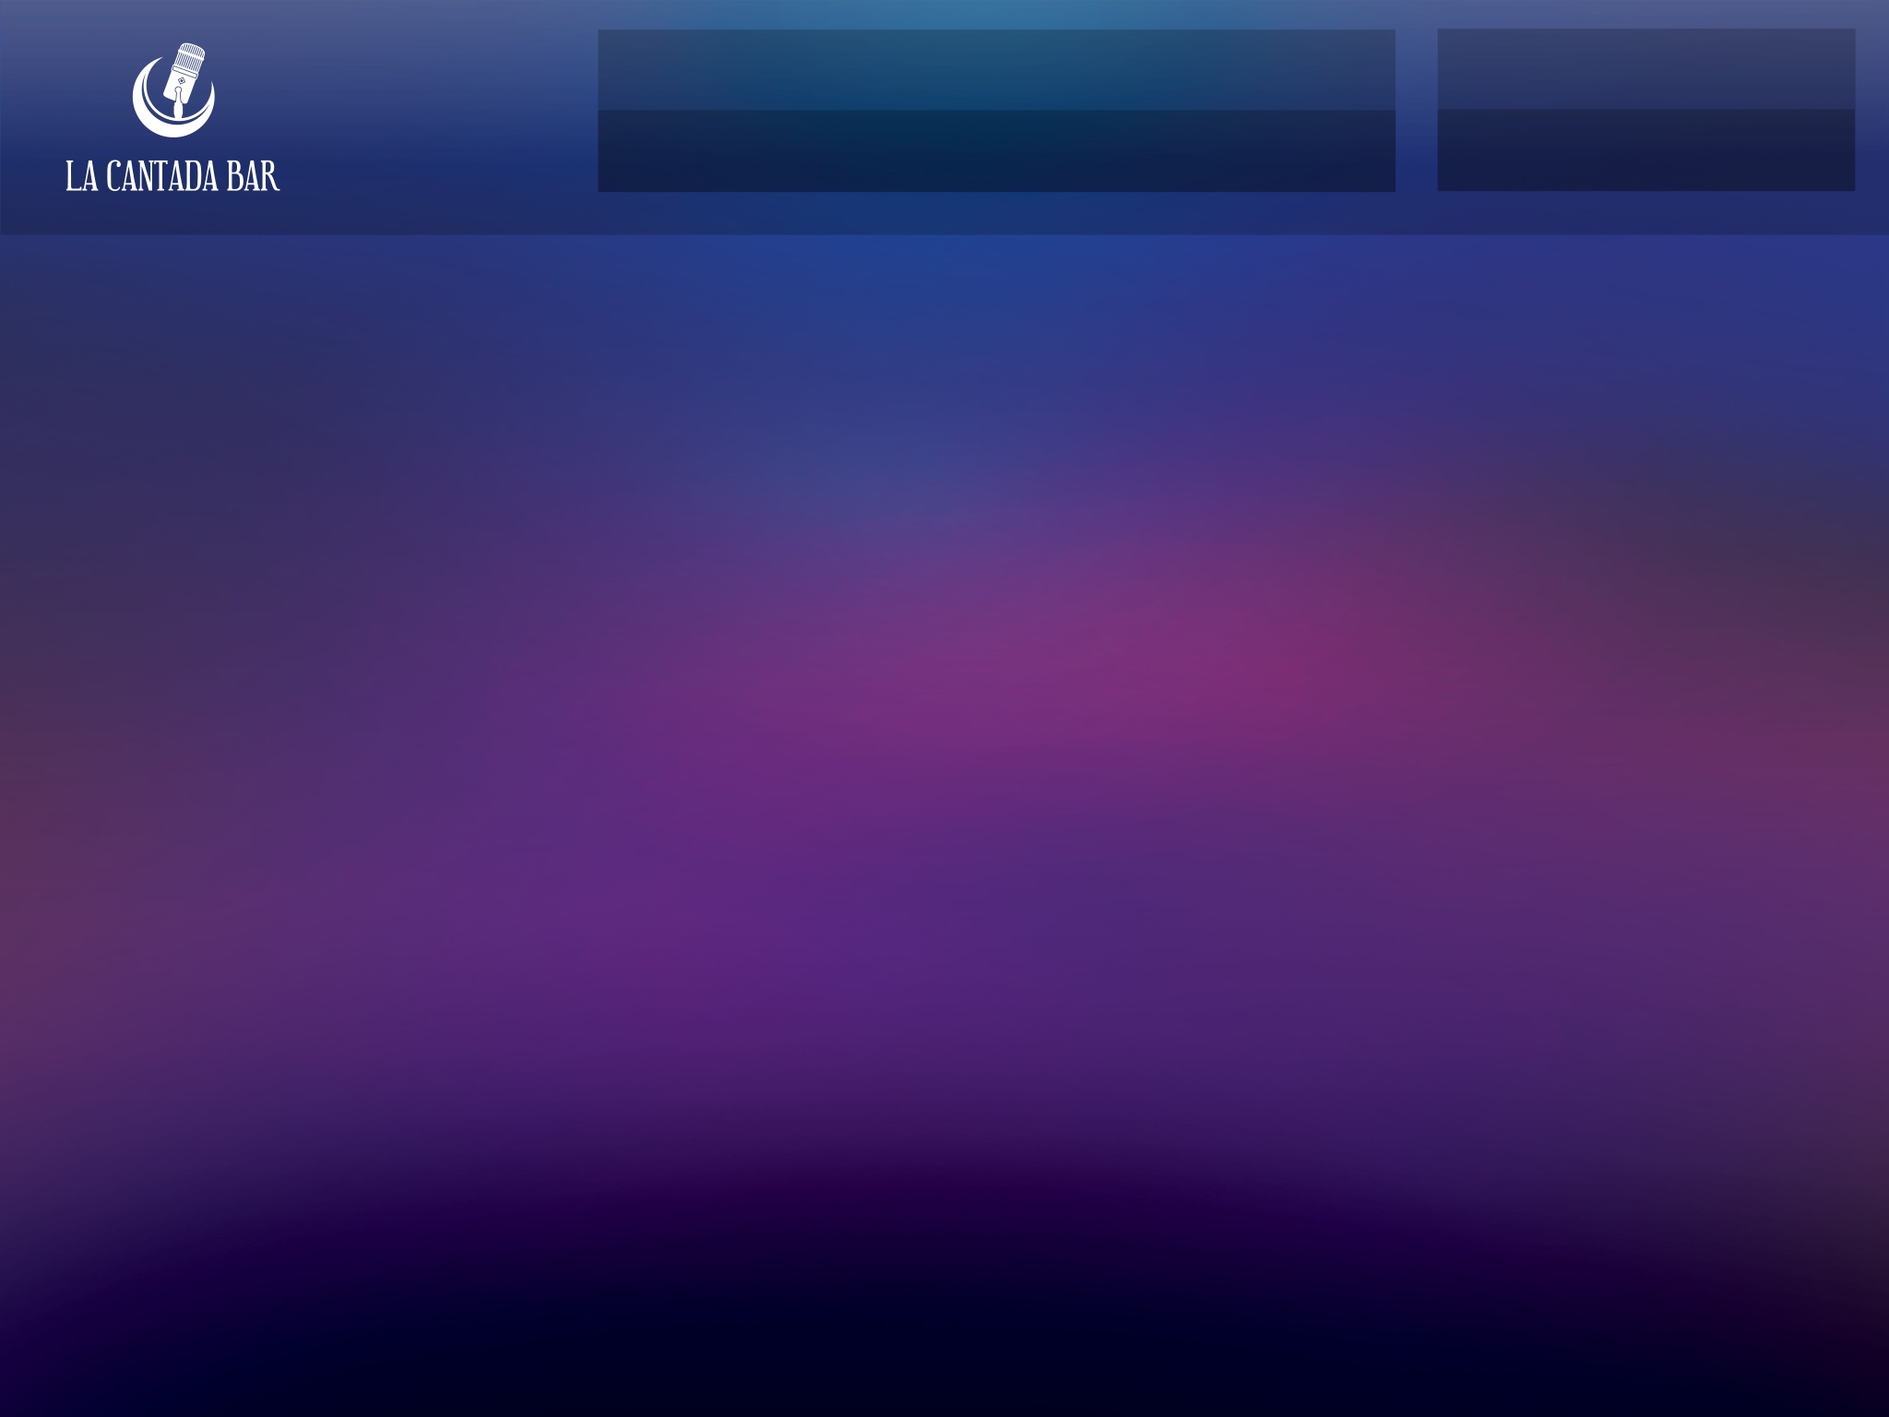
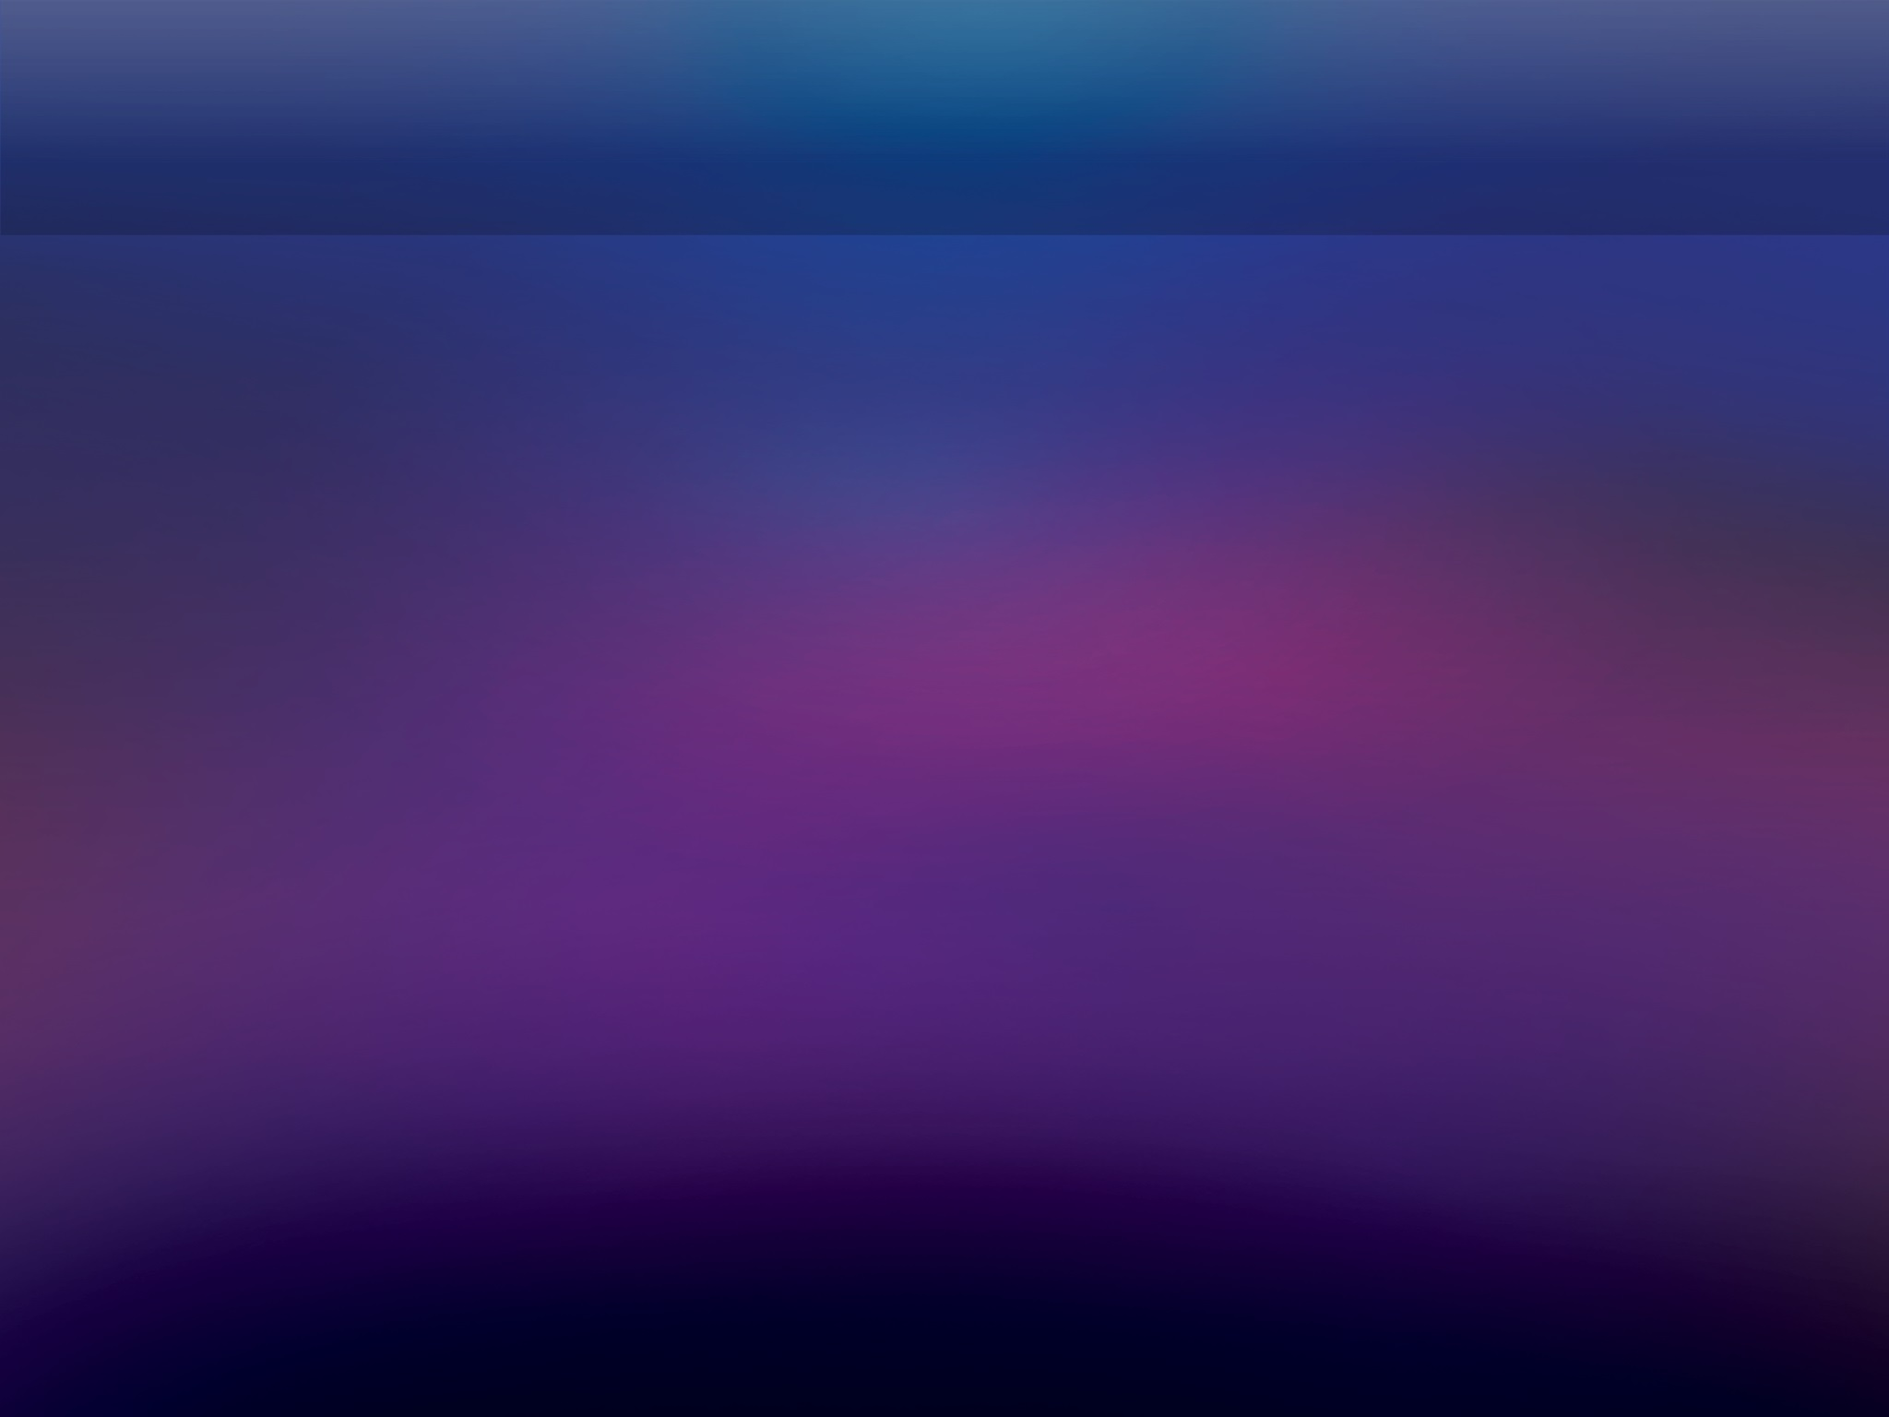
cambios

Changed region(s): [[0.3125, 0.0, 1.0, 0.1562], [0.0312, 0.0312, 0.1562, 0.1562]]

diff --git a/js/index.js b/js/index.js
@@ -1,6 +1,7 @@
 var images = new Array()
 var covers_loading = false;
 var search_text = "";
+var drinks = false;
 var limit = 0;
 var searching = false;
 function preload() {
@@ -15,7 +16,22 @@ preload(
 	"img/cancionero-activo.jpg",
 	"img/menu-activo.jpg",
 	"img/fotos-activo.jpg",
-	"img/info-activo.jpg"
+	"img/info-activo.jpg",
+	"img/menu/botonesmenuactiv01.png",
+	"img/menu/botonesmenuactiv02.png",
+	"img/menu/botonesmenuactiv03.png",
+	"img/menu/botonesmenuactiv4.png",
+	"img/menu/botonesmenuactiv5.png",
+	"img/menu/botonesmenuactiv6.png",
+	"img/menu/botonesmenuactiv7.png",
+	"img/menu/botonesmenuactiv8.png",
+	"img/menu/botonesmenuactiv9.png",
+	"img/menu/botonesmenuactiv10.png",
+	"img/menu/botonesmenuactiv11.png",
+	"img/menu/botonesmenuactiv12.png",
+	"img/menu/botonesmenuactiv13.png",
+	"img/menu/botonesmenuactiv14.png",
+	"img/menu/botonesmenuactiv15.png"
 )
 
 var promos;
@@ -74,8 +90,9 @@ var app = {
     },
 
     start: function() {		
-		navigator.splashscreen.hide();
-		updateMyApp("inicio");
+		//navigator.splashscreen.hide();
+		//updateMyApp("inicio");
+		drinks = false;
 		setTimeout(function(){
 			$('#splash').fadeOut(function(){
 				StatusBar.overlaysWebView(true);
@@ -122,6 +139,9 @@ var app = {
 					switch(page){
 						case 'inicio':
 							setup_inicio();
+						break;
+						case 'menu':
+							setup_menu();
 						break;
 						case 'cancionero':
 							
@@ -341,6 +361,49 @@ var app = {
 				});
 			}
 		}
+		function setup_menu(){
+			menu = new IScroll('#menu_target_list',{click: true,scrollbars: true,interactiveScrollbars: true,shrinkScrollbars: 'scale',fadeScrollbars: true});
+			searching_drinks = false;
+			$('.category').click(function(e) {
+				if(!searching_drinks){
+					drinks = true;
+					searching_drinks=true;
+					$('.category').removeClass('active');
+					$(this).addClass('active');
+					//Search on server
+					result = "<li><span>VOLUMEN</span><span>NOMBRE</span><span>BOTELLA</span><span>COPEO</span></li>";
+					$("#menu_target_list .scroller").html(result);
+					search_drink=$(this).attr('id');
+					$.ajax({
+						url: "http://www.tuquinielita.com/lacantadabar/getProductsByType.php",
+						dataType: "jsonp",
+						data: {type:search_drink},
+						success: function (response) {
+							if(response.success){
+								searching_drinks=false;
+								count = response.items.length;
+								$.each(response.items,function (i,item) {
+									result+="<li><span>"+item.volume+"ml</span><span>"+item.name+"</span><span>"+item.price+"</span><span>"+item.drink+"</span></li>";
+									if (!--count) {
+											$("#menu_target_list .scroller").html(result);
+											$('#menu_target .title').html(search_drink);
+											if(menu){menu.refresh();menu.scrollTo(0,0,1500);}
+									}
+								});
+							}else{
+								searching_drinks=false;
+							}
+						},
+						error: function(){
+							searching_drinks=false;
+						}
+					});
+				}
+            });
+			if(!drinks){
+				$('.category:first').click();
+			}
+		}
 		function setup_inicio(){			
 			if(check_refresh("setup_inicio")){
 				checarSlides("slides");
@@ -383,8 +446,7 @@ var app = {
 							//Si no se tiene previamente guardado en localStorage || locaStorage es diferente a lo obtenido o está vacío || no hay nada (ocurre al refresh)
 							if(!localStorage.getItem(target)||localStorage.getItem(target)!=prepend||!$("#"+target+" li").length){
 								localStorage.setItem(target,prepend);
-								$("#"+target).html("");
-								$("#"+target).prepend(prepend);
+								$("#"+target).html(prepend);
 								setTimeout(function(){if(target=="slides"){slides.reloadSlider();}else{promos.reloadSlider();}},100);
 							}
 							
@@ -398,29 +460,68 @@ var app = {
 			});
 		}
 		function setup_fotos(){
+			result ="";
+			$.ajax({
+						url: "http://www.tuquinielita.com/lacantadabar/getPics.php",
+						dataType: "jsonp",
+						success: function (response) {
+							count = response.items.length;
+							$.each(response.items,function (i,item) {
+								result+="<img src='"+item.path+"'></img>";
+								if (!--count) {
+									$("#photo_list .scroller").append(result);
+									$("#photo_list .scroller img").click(function(e) {
+										var data = $(this).attr('src');
+										$('#photo_show').animate({opacity:0},'10',function(){
+											$('#photo_show').css('background-image','url('+data+')');
+											$('#photo_show').animate({opacity:1},'10');
+										});
+									});
+									photolist.refresh();
+									//Onload load first image by clicking on it
+									$('#photo_list .scroller img:first-child').click();
+								}
+							});
+						},
+						error: function(){
+							alert("error");
+							setTimeout(function(){if(target=="slides"){slides.reloadSlider();}else{promos.reloadSlider();}},100);
+						}
+					});
 			//Setup lazyload on img.lazy and photo list container
-			$("img.lazy").lazyload({
+			/*$("img.lazy").lazyload({
 				effect : "fadeIn",
 				container: $('#photo_list')
 			});
-			
+			*/
 			//Setup click action on img.lazy
-			$("img.lazy").click(function(e) {
-				var data = $(this).attr('data-original');
-				$('#photo_show').animate({opacity:0},'10',function(){
-					$('#photo_show').css('background-image','url('+data+')');
-					$('#photo_show').animate({opacity:1},'10');
-				});
-			});
+			
 			
 			//Setup Photo List iScroll
 			loading = false;
 			photolist = new IScroll('#photo_list',{click: true,probeType:3,scrollbars: true,interactiveScrollbars: true,shrinkScrollbars: 'scale',fadeScrollbars: true});
-			photolist.on('scroll', function(){
+			/*photolist.on('scroll', function(){
 				if(!loading&&this.y<this.maxScrollY){
 					loading = true;
-					$('#photo_list .scroller').append('<img class="lazy" data-original="http://tuquinielita.com/lacantadabar/img/photos/1.jpg" /><img class="lazy" data-original="http://tuquinielita.com/lacantadabar/img/photos/2.jpg" /><img class="lazy" data-original="http://tuquinielita.com/lacantadabar/img/photos/3.jpg" /><img class="lazy" data-original="http://tuquinielita.com/lacantadabar/img/photos/4.jpg" /><img class="lazy" data-original="http://tuquinielita.com/lacantadabar/img/photos/5.jpg" />');
-					photolist.refresh();
+					result="";
+					$.ajax({
+						url: "http://www.tuquinielita.com/lacantadabar/getPics.php",
+						dataType: "jsonp",
+						success: function (response) {
+							count = response.items.length;
+							$.each(response.items,function (i,item) {
+								result+="<li><img src='"+item.path+"'></img></li>";
+								if (!--count) {
+										$("#photo_list .scroller").append(result);
+										photolist.refresh();
+								}
+							});
+						},
+						error: function(){
+							alert("error");
+							setTimeout(function(){if(target=="slides"){slides.reloadSlider();}else{promos.reloadSlider();}},100);
+						}
+					});
 					setTimeout(function(){
 						loading = false;
 						//Setup click action on img.lazy
@@ -435,13 +536,10 @@ var app = {
 				}
 			});
 			photolist.on('scrollEnd', function(){
-				$("img.lazy").lazyload().on('load', function () {$(this).removeClass();});
 				if (this.y == this.maxScrollY){
 				}
-			});
+			});*/
 			
-			//Onload load first image by clicking on it
-			$('#photo_list img:first-child').click();
 		}
 		function getLocationHash () {
 		  return window.location.hash.substring(1);

diff --git a/css/index.css b/css/index.css
@@ -60,7 +60,7 @@ html,body {
 
 section{width:20%; float:left; height:100%; background-size:100% 100%; position:relative;}
 section div{position:absolute; top:50%; margin-top:-20px; width:100%; text-align:center; color:#fff;}
-#splash{position:absolute; top:0; left:0; width:100%; height:100%; background:url(../img/splash.jpg) no-repeat; background-size:100% 100%; z-index:1;}
+#splash{position:absolute; top:0; left:0; width:100%; height:100%; background:url(../img/splash.jpg) no-repeat; background-size:100% 100%; z-index:100;}
 
 /** INICIO **/
 #slides,#promos{opacity:0;}
@@ -212,6 +212,8 @@ input[type=radio]:not(old):checked + label{
 	border-top: 1px solid #111;
 	background-color: rgba(0,0,0,0.5);
 	font-size: 14px;
+	/* 2 columns */
+	/*width:50%; float:left; overflow:hidden;*/  
 }
 .scroller li span{color:#fff;}
 .iScrollIndicator{border:none !important; background:rgba(100,100,100,0.5) !important;}
@@ -225,6 +227,7 @@ input[type=radio]:not(old):checked + label{
 
 /** HEADER **/
 header{width:100%; height:126px; position:relative; float:left;}
+#logo{width:445px; position:absolute; top:10px; left:0px; z-index:0;}
 #cover{position:absolute; width:88px; height:88px; background-repeat:no-repeat; background-size:contain; left:211px; top:18px;}
 #nowplaying{position: absolute;left: 325px;top: 16px;color: #fff;width: 431px;padding: 7px 10px;}
 #nowplaying h1{font-size:20px; margin:0;}
@@ -233,8 +236,83 @@ header{width:100%; height:126px; position:relative; float:left;}
 #session_name{position:absolute; right:20px; top:20px; width:223px; line-height:42px; text-align:center; font-size:30px}
 #session_user{position:absolute; right:20px; top:63px; width:223px; line-height:42px; text-align:center; font-size:30px}
 
+/** MENU **/
+.title{width:100%; text-align:center; text-transform:uppercase; font-size:25px; color:#fff; font-weight:bold; background:rgba(0,0,0,0.5); line-height:40px; margin-bottom:10px;}
+#menu {width:530px; margin:5px; float:left; background:rgba(0,0,0,0.2);}
+#menu div:not(.title){float:left; margin:0px 5px 10px 10px; width:160px; height:85px; background-size:100% 100%; }
+div#ron.active{background-image:url(../img/menu/botonesmenuactiv01.png);}
+div#ron{background-image:url(../img/menu/botonesmenuinactivo01.png);}
 
+div#whisky.active{background-image:url(../img/menu/botonesmenuactiv02.png);}
+div#whisky{background-image:url(../img/menu/botonesmenuinactivo02.png);}
 
+div#vodka.active{background-image:url(../img/menu/botonesmenuactiv03.png);}
+div#vodka{background-image:url(../img/menu/botonesmenuinactivo03.png);}
+
+div#tequila.active{background-image:url(../img/menu/botonesmenuactiv4.png);}
+div#tequila{background-image:url(../img/menu/botonesmenuinactivo04.png);}
+
+div#ginebra.active{background-image:url(../img/menu/botonesmenuactiv5.png);}
+div#ginebra{background-image:url(../img/menu/botonesmenuinactivo05.png);}
+
+div#brandy.active{background-image:url(../img/menu/botonesmenuactiv6.png);}
+div#brandy{background-image:url(../img/menu/botonesmenuinactivo06.png);}
+
+div#mezcal.active{background-image:url(../img/menu/botonesmenuactiv7.png);}
+div#mezcal{background-image:url(../img/menu/botonesmenuinactivo07.png);}
+
+div#champagne.active{background-image:url(../img/menu/botonesmenuactiv8.png);}
+div#champagne{background-image:url(../img/menu/botonesmenuinactivo08.png);}
+
+div#cognac.active{background-image:url(../img/menu/botonesmenuactiv9.png);}
+div#cognac{background-image:url(../img/menu/botonesmenuinactivo09.png);}
+
+div#shots.active{background-image:url(../img/menu/botonesmenuactiv10.png);}
+div#shots{background-image:url(../img/menu/botonesmenuinactivo10.png);}
+
+div#licores.active{background-image:url(../img/menu/botonesmenuactiv11.png);}
+div#licores{background-image:url(../img/menu/botonesmenuinactivo11.png);}
+
+div#jarras.active{background-image:url(../img/menu/botonesmenuactiv12.png);}
+div#jarras{background-image:url(../img/menu/botonesmenuinactivo12.png);}
+
+div#margaritas.active{background-image:url(../img/menu/botonesmenuactiv13.png);}
+div#margaritas{background-image:url(../img/menu/botonesmenuinactivo13.png);}
+
+div#colados.active{background-image:url(../img/menu/botonesmenuactiv14.png);}
+div#colados{background-image:url(../img/menu/botonesmenuinactivo14.png);}
+
+div#varios.active{background-image:url(../img/menu/botonesmenuactiv15.png);}
+div#varios{background-image:url(../img/menu/botonesmenuinactivo15.png);}
+
+#menu_target{width:440px; height:525px; float:left; margin:5px; background:rgba(0,0,0,0.2);}
+#menu_target .title{margin:0;}
+#menu_target_list{width:100%; height:440px; overflow:hidden; position: relative;
+	/* Prevent native touch events on Windows */
+	-ms-touch-action: none;
+
+	/* Prevent the callout on tap-hold and text selection */
+	-webkit-touch-callout: none;
+	-webkit-user-select: none;
+	-moz-user-select: none;
+	-ms-user-select: none;
+	user-select: none;
+
+	/* Prevent text resize on orientation change, useful for web-apps */
+	-webkit-text-size-adjust: none;
+	-moz-text-size-adjust: none;
+	-ms-text-size-adjust: none;
+	-o-text-size-adjust: none;
+	text-size-adjust: none;
+}
+#menu_target_list .scroller{text-align:center; width:100%; margin-bottom:30px;}
+#menu_target_list .scroller li{list-style:none; background:rgba(0,0,0,0.1); font-weight:normal !important;}
+#menu_target_list .scroller li:first-child{list-style:none; background:rgba(0,0,30,0.3); font-weight:bold;}
+#menu_target_list .scroller li span{ text-transform:uppercase; float:left;}
+#menu_target_list .scroller li span:nth-child(1){width:70px;}
+#menu_target_list .scroller li span:nth-child(2){width:220px; overflow:hidden;}
+#menu_target_list .scroller li span:nth-child(3){width:65px;}
+#menu_target_list .scroller li span:nth-child(4){width:65px;}
 /*** NAVIGATION FOOTER **/
 /*nav{position:absolute; bottom:0;}*/
 nav a{float:left; text-decoration:none; background-repeat:no-repeat; background-size:100% 100%; height:88px;}

diff --git a/index.html b/index.html
@@ -14,9 +14,10 @@
     	<div id="splash"></div>
         <div id="container">
         	<header>
+            	<img src="img/logo.png" id="logo" />
             	<div id="cover"></div>
                 <div id="nowplaying"><h1></h1><h2></h2><div id="lyrics_button">VER LETRA</div></div>
-                <div id="nextsong"><strong>SIGUIENTE CANCIÓN: </strong> </div>
+                <div id="nextsong"><!--strong>SIGUIENTE CANCIÓN: </strong--> </div>
                 <div id="session_name"></div>
                 <div id="session_user"></div>
             </header>
@@ -74,31 +75,40 @@
             <div class="page" id="page_fotos">
             	<div id="photo_show"></div>
             	<div id="photo_list">
-                    <div class="scroller">
-                        <img class="lazy" data-original="http://tuquinielita.com/lacantadabar/img/photos/1.jpg" />
-                        <img class="lazy" data-original="http://tuquinielita.com/lacantadabar/img/photos/2.jpg" />
-                        <img class="lazy" data-original="http://tuquinielita.com/lacantadabar/img/photos/3.jpg" />
-                        <img class="lazy" data-original="http://tuquinielita.com/lacantadabar/img/photos/4.jpg" />
-                        <img class="lazy" data-original="http://tuquinielita.com/lacantadabar/img/photos/5.jpg" />
-                        <img class="lazy" data-original="http://tuquinielita.com/lacantadabar/img/photos/6.jpg" />
-                        <img class="lazy" data-original="http://tuquinielita.com/lacantadabar/img/photos/7.jpg" />
-                        <img class="lazy" data-original="http://tuquinielita.com/lacantadabar/img/photos/8.jpg" />
-                        <img class="lazy" data-original="http://tuquinielita.com/lacantadabar/img/photos/9.jpg" />
-                        <img class="lazy" data-original="http://tuquinielita.com/lacantadabar/img/photos/10.jpg" />
-                        <img class="lazy" data-original="http://tuquinielita.com/lacantadabar/img/photos/11.jpg" />
-                        <img class="lazy" data-original="http://tuquinielita.com/lacantadabar/img/photos/12.jpg" />
-                        <img class="lazy" data-original="http://tuquinielita.com/lacantadabar/img/photos/13.jpg" />
-                        <img class="lazy" data-original="http://tuquinielita.com/lacantadabar/img/photos/14.jpg" />
-                        <img class="lazy" data-original="http://tuquinielita.com/lacantadabar/img/photos/15.jpg" />
-                        <img class="lazy" data-original="http://tuquinielita.com/lacantadabar/img/photos/16.jpg" />
-                        <img class="lazy" data-original="http://tuquinielita.com/lacantadabar/img/photos/10.jpg" />
-                        <img class="lazy" data-original="http://tuquinielita.com/lacantadabar/img/photos/11.jpg" />
-                        <img class="lazy" data-original="http://tuquinielita.com/lacantadabar/img/photos/12.jpg" />
-                        
-                    </div>
+                    <div class="scroller"></div>
                 </div>
             </div>
             <div class="page" id="page_menu">
+            	<div id="menu">
+                	<div class="title">LA CARTA</div>
+                    <div id="ron" class="active category"></div>
+                    <div id="whisky" class="category"></div>
+                    <div id="vodka" class="category"></div>
+                    
+                    <div id="tequila" class="category"></div>
+                    <div id="ginebra" class="category"></div>
+                    <div id="brandy" class="category"></div>
+                    
+                    <div id="mezcal" class="category"></div>
+                    <div id="champagne" class="category"></div>
+                    <div id="cognac" class="category"></div>
+                    
+                    <div id="shots" class="category"></div>
+                    <div id="licores" class="category"></div>
+                    <div id="jarras" class="category"></div>
+                    
+                    <div id="margaritas" class="category"></div>
+                    <div id="colados" class="category"></div>
+                    <div id="varios" class="category"></div>
+                </div>
+                <div id="menu_target">
+                	<div class="title">RON</div>
+                    <div id="menu_target_list">
+                    	<div class="scroller">
+	                        <li><span>VOLUMEN</span><span>NOMBRE</span><span>BOTELLA</span><span>COPEO</span></li>
+                        </div>
+                    </div>
+                </div>
             </div>
             <div class="page" id="page_info">
             	<div id="info_container">
